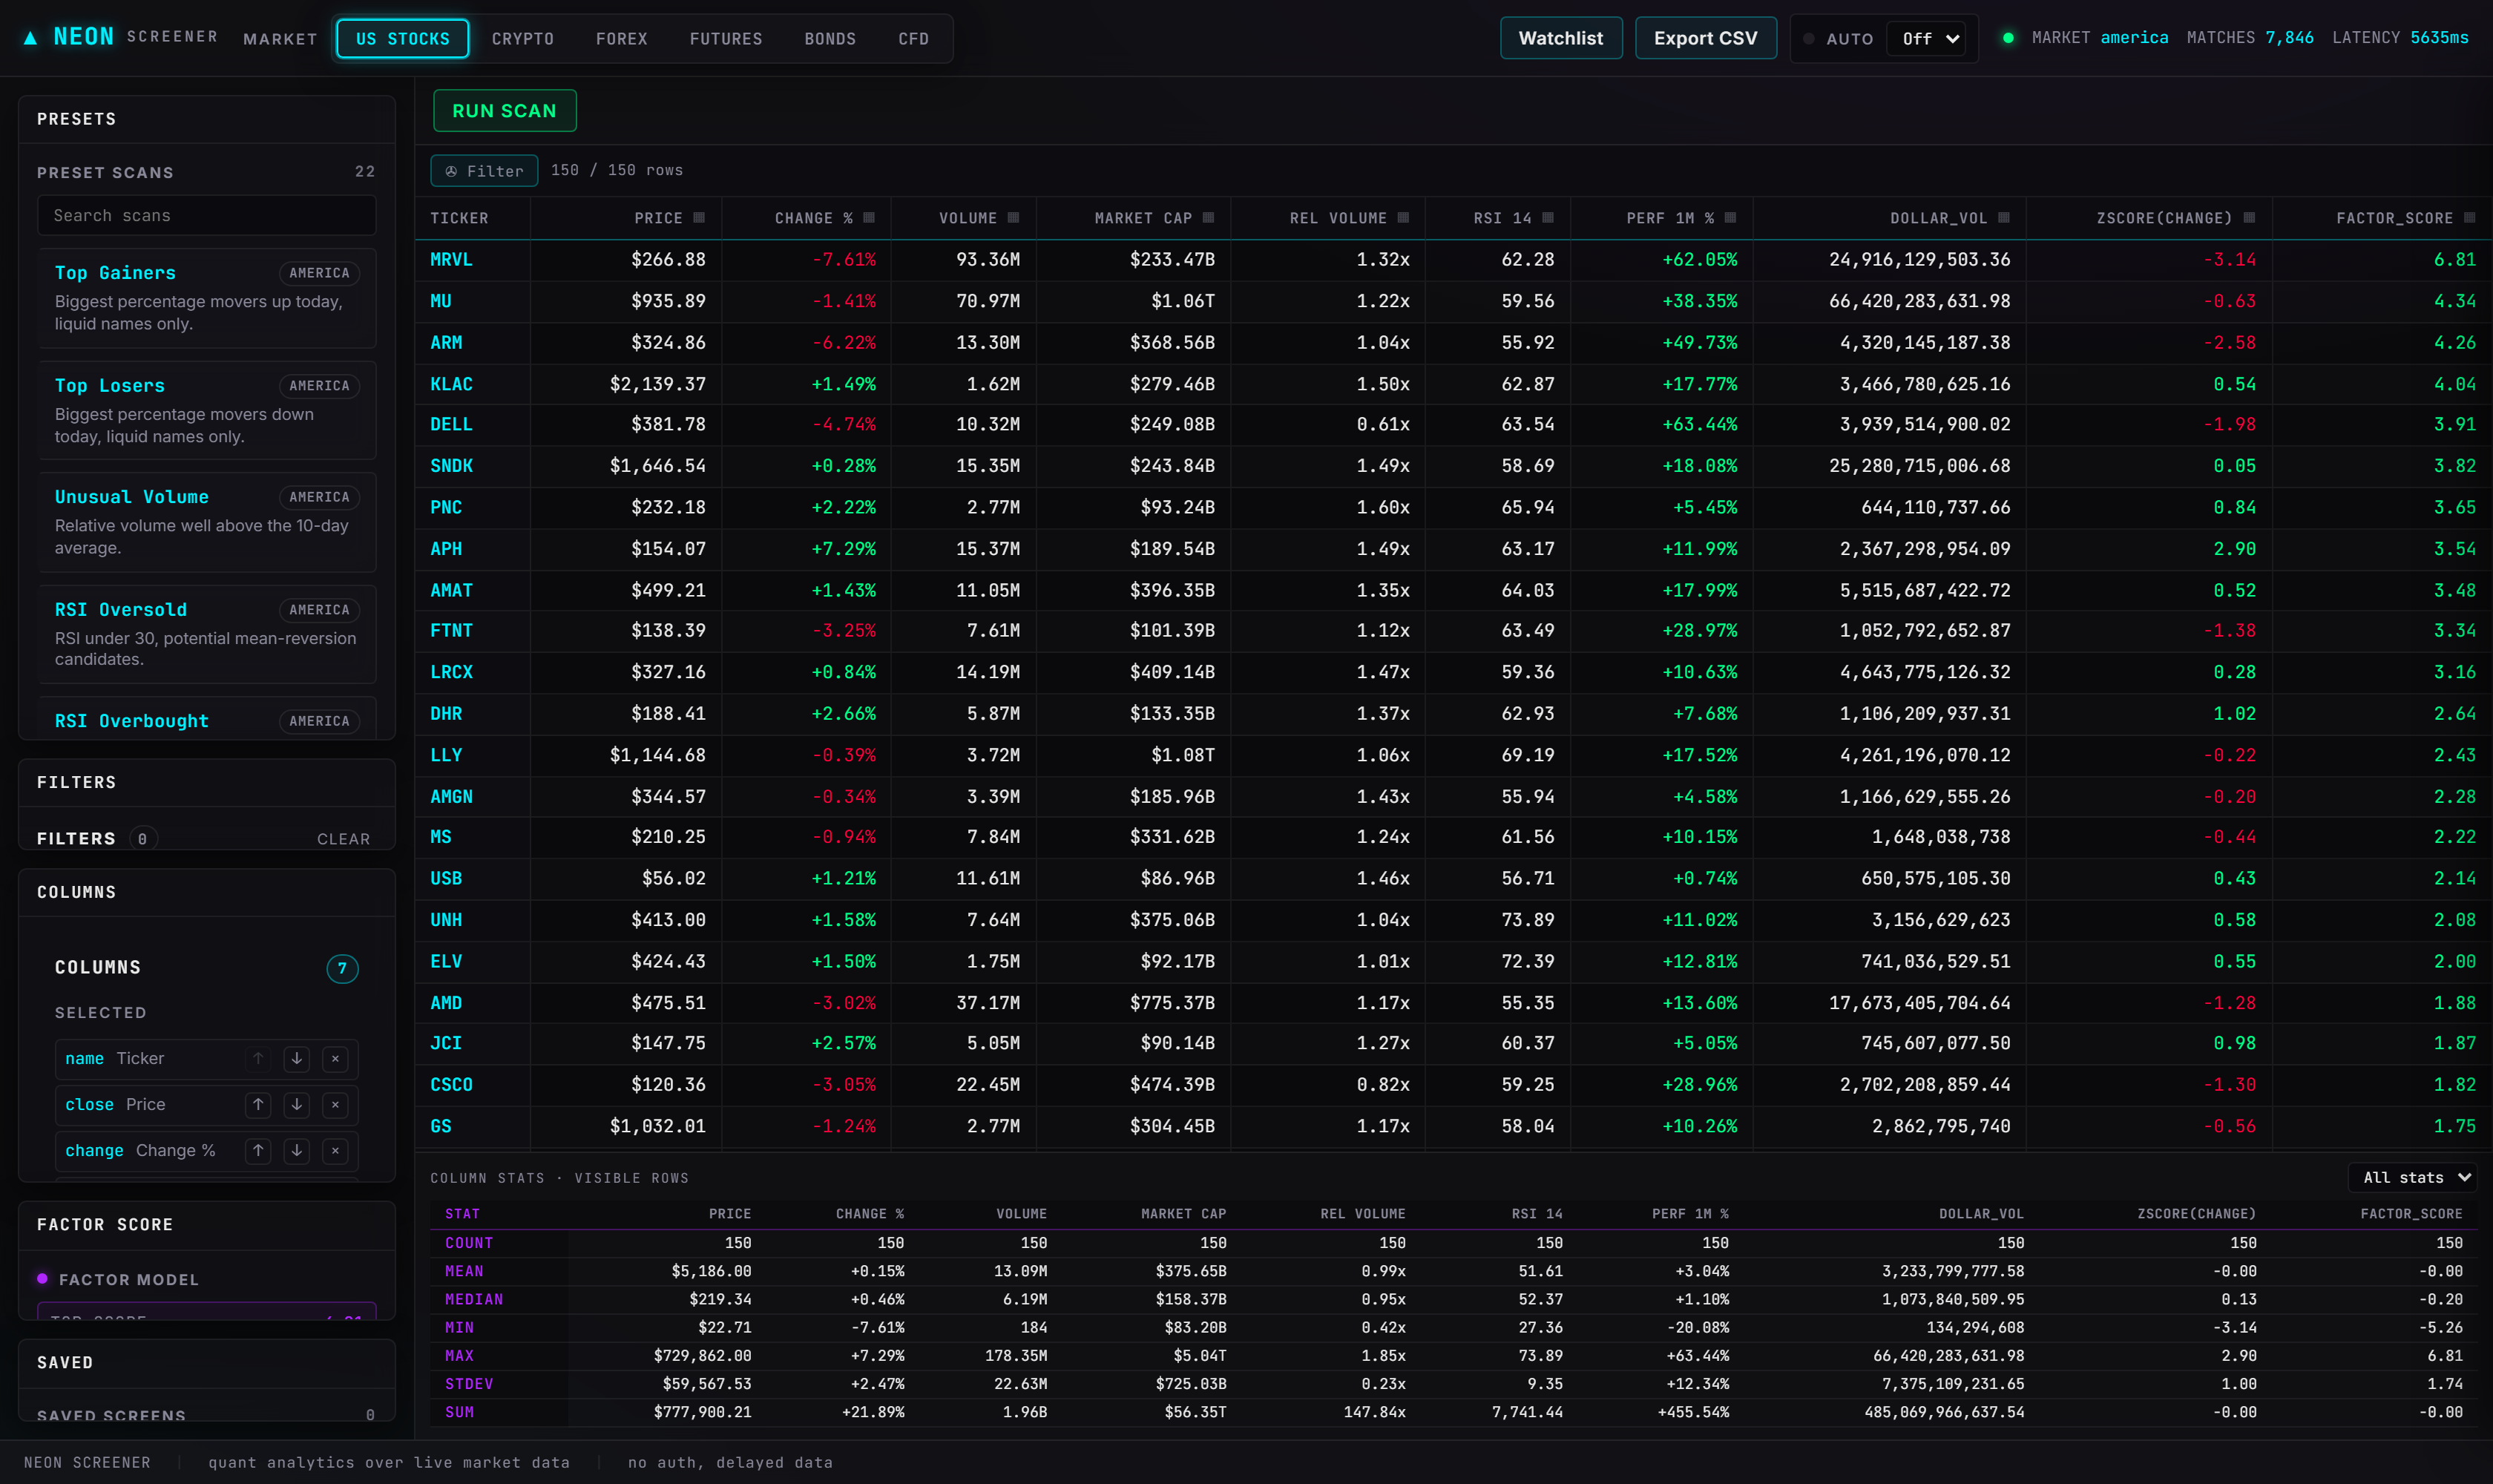
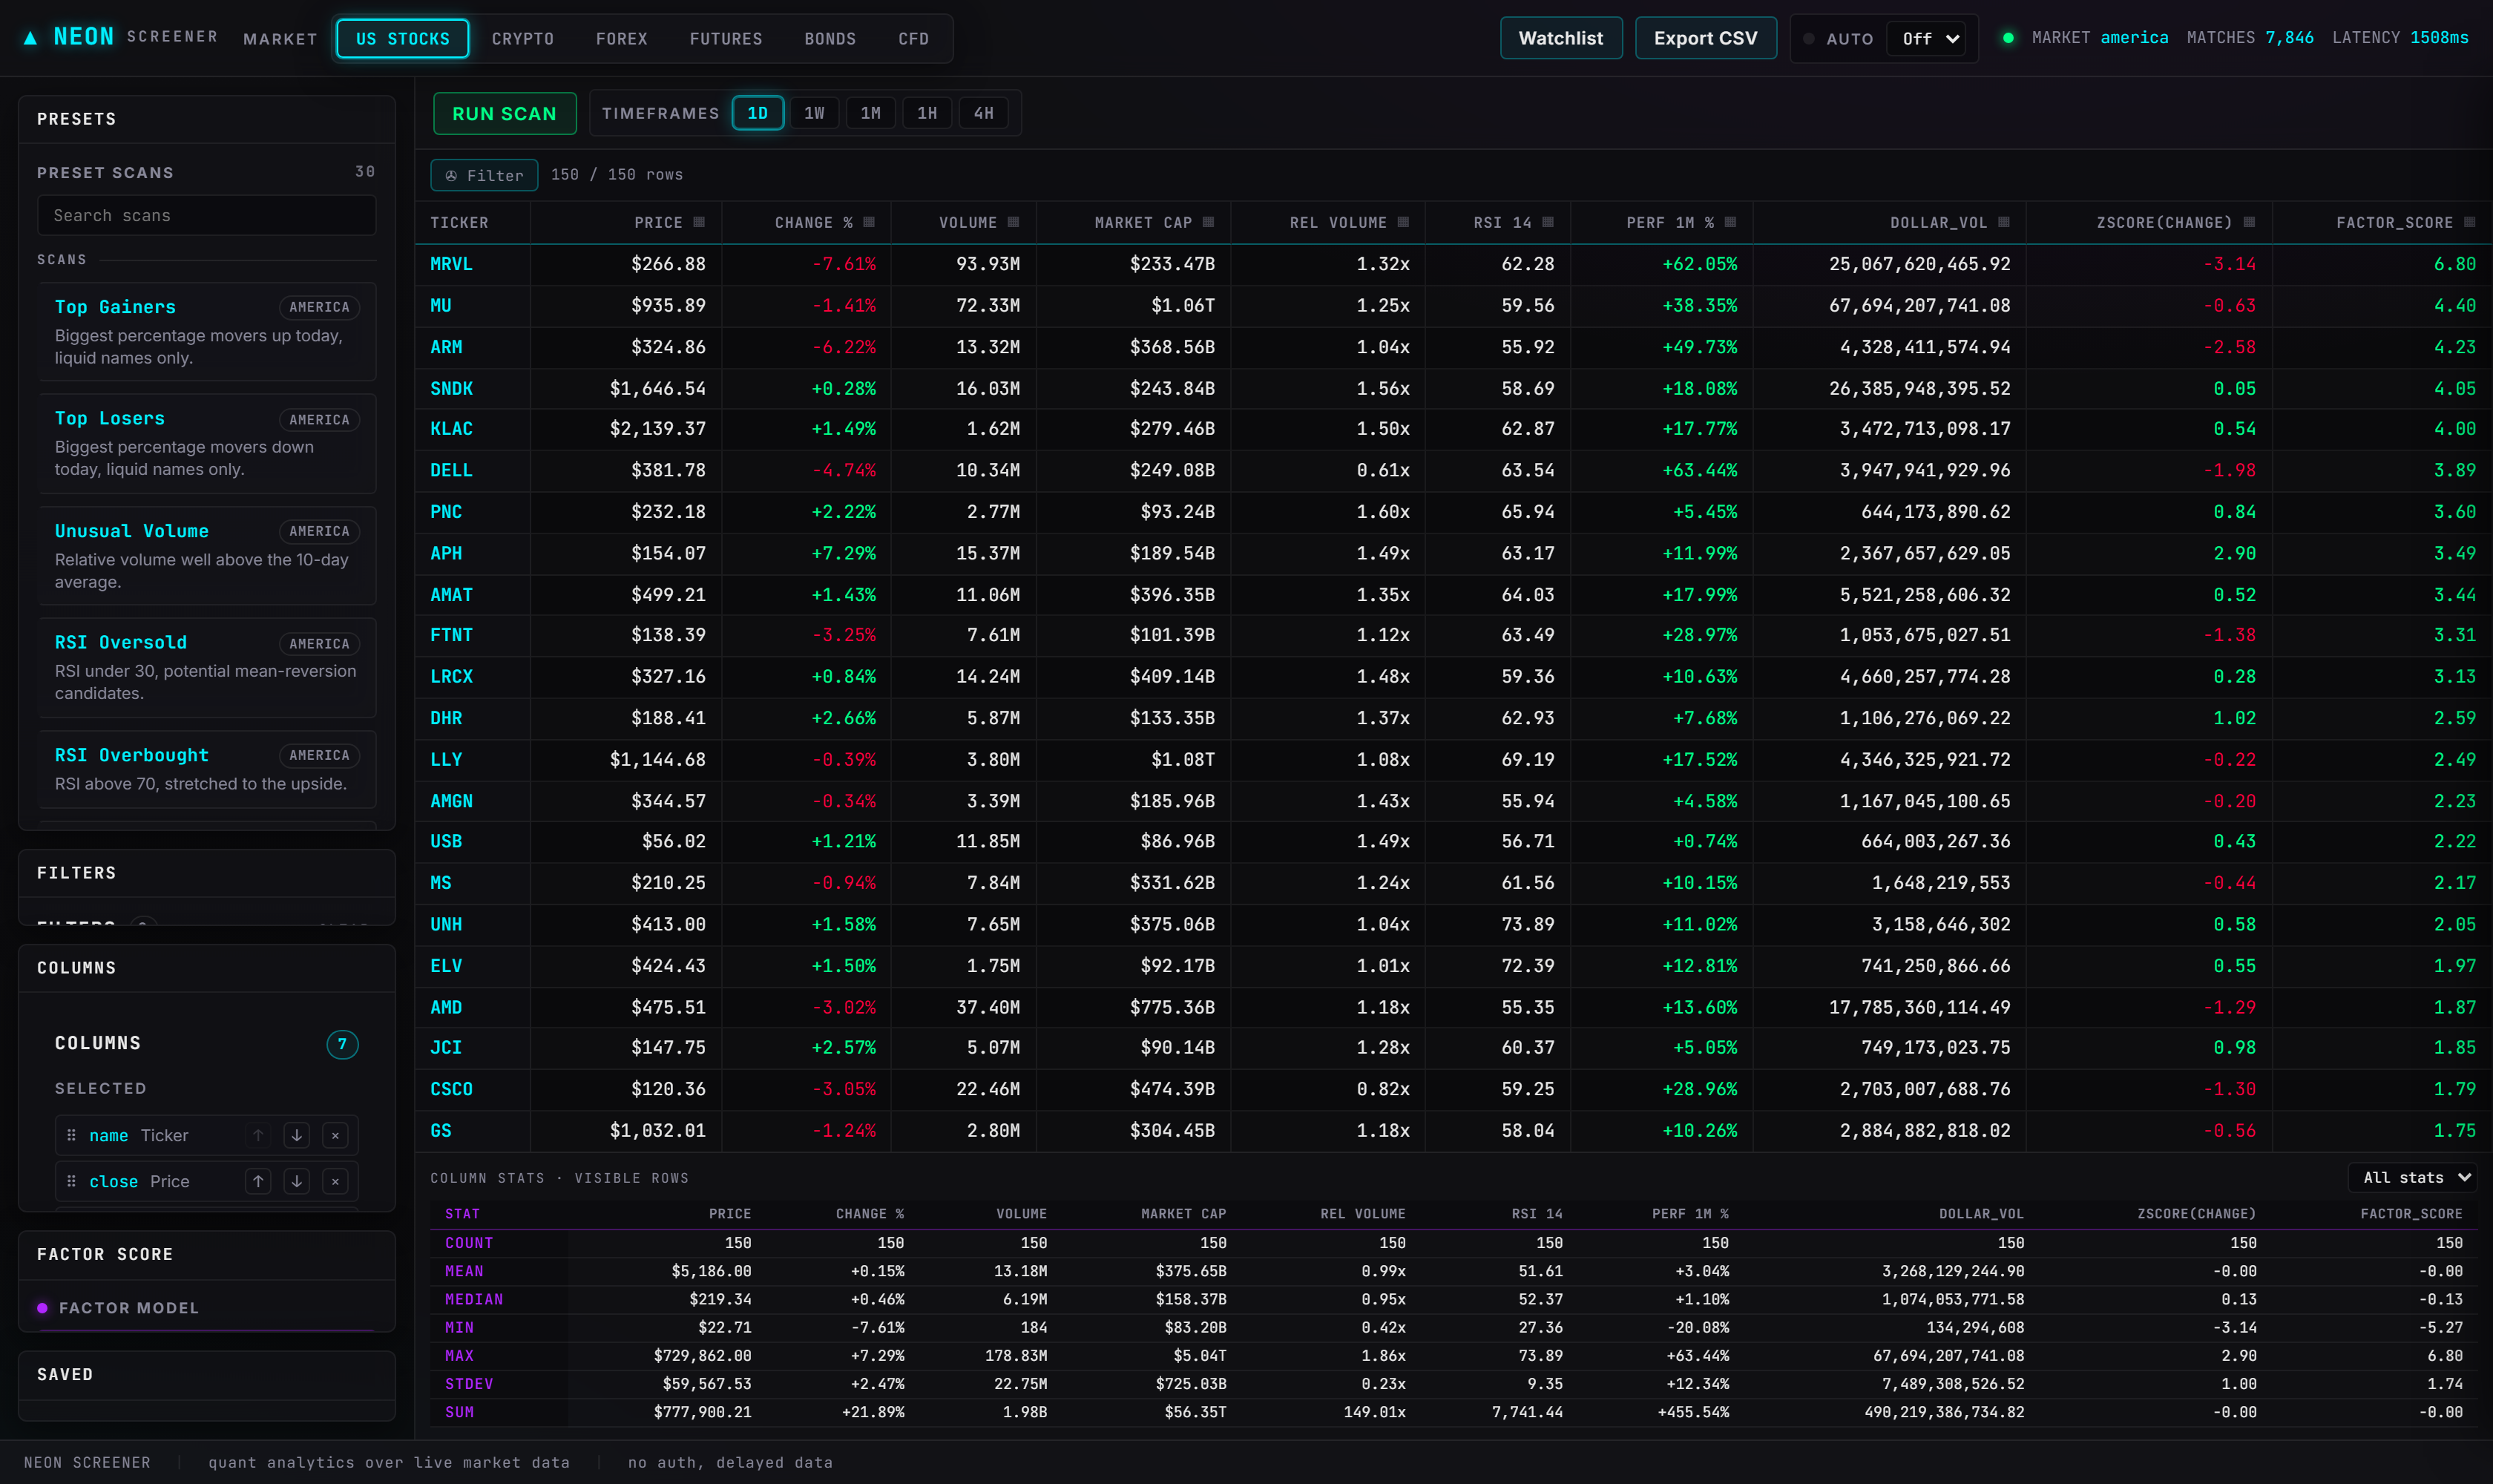
Wave 5: full EMA/SMA period catalog, signals screenshot, verify (52/52)
Add the standard + Fibonacci MA periods (5/8/10/13/21/30/34/55/89) as real
catalog fields so the Stacked EMA Ribbon signal displays its columns, not just
filters on them. Catalog now 190 fields. README + fresh screenshots.

diff --git a/docs/capture.py b/docs/capture.py
@@ -48,6 +48,34 @@ def main() -> int:
         page.screenshot(path=str(OUT / "analytics.png"))
         print("wrote analytics.png")
 
+        # Signals view: the Stacked EMA Fibonacci ribbon with a heatmap on change.
+        page.evaluate(
+            """async () => {
+              const s = window.Screener.store;
+              s.set({
+                columns: ['name','close','change','EMA8','EMA21','EMA34','EMA55','EMA89'],
+                computed: [], stats: [], factor: null,
+                filters: [
+                  {field:'close', op:'>', value:'EMA8'},
+                  {field:'EMA8', op:'>', value:'EMA21'},
+                  {field:'EMA21', op:'>', value:'EMA34'},
+                  {field:'EMA34', op:'>', value:'EMA55'},
+                  {field:'EMA55', op:'>', value:'EMA89'}
+                ],
+                match: 'all',
+                sort: [{field:'change', dir:'desc'}]
+              });
+              await s.runScreen();
+              if (window.Screener.table && window.Screener.table.heatmapCols) {
+                window.Screener.table.heatmapCols.add('change');
+                window.Screener.table._rerender && window.Screener.table._rerender();
+              }
+            }"""
+        )
+        time.sleep(1.5)
+        page.screenshot(path=str(OUT / "signals.png"))
+        print("wrote signals.png")
+
         browser.close()
     return 0
 

diff --git a/backend/fields.py b/backend/fields.py
@@ -183,12 +183,32 @@ _TECHNICALS = [
 ]
 
 _MOVINGAVG = [
+    # Full standard + Fibonacci period set. All probed live and confirmed to
+    # return data, so the EMA ribbon signals (8/21/34/55/89) display correctly.
+    _f("SMA5", "SMA 5", "MovingAverages", "price", "$"),
+    _f("SMA8", "SMA 8", "MovingAverages", "price", "$"),
+    _f("SMA10", "SMA 10", "MovingAverages", "price", "$"),
+    _f("SMA13", "SMA 13", "MovingAverages", "price", "$"),
     _f("SMA20", "SMA 20", "MovingAverages", "price", "$"),
+    _f("SMA21", "SMA 21", "MovingAverages", "price", "$"),
+    _f("SMA30", "SMA 30", "MovingAverages", "price", "$"),
+    _f("SMA34", "SMA 34", "MovingAverages", "price", "$"),
     _f("SMA50", "SMA 50", "MovingAverages", "price", "$"),
+    _f("SMA55", "SMA 55", "MovingAverages", "price", "$"),
+    _f("SMA89", "SMA 89", "MovingAverages", "price", "$"),
     _f("SMA100", "SMA 100", "MovingAverages", "price", "$"),
     _f("SMA200", "SMA 200", "MovingAverages", "price", "$"),
+    _f("EMA5", "EMA 5", "MovingAverages", "price", "$"),
+    _f("EMA8", "EMA 8", "MovingAverages", "price", "$"),
+    _f("EMA10", "EMA 10", "MovingAverages", "price", "$"),
+    _f("EMA13", "EMA 13", "MovingAverages", "price", "$"),
     _f("EMA20", "EMA 20", "MovingAverages", "price", "$"),
+    _f("EMA21", "EMA 21", "MovingAverages", "price", "$"),
+    _f("EMA30", "EMA 30", "MovingAverages", "price", "$"),
+    _f("EMA34", "EMA 34", "MovingAverages", "price", "$"),
     _f("EMA50", "EMA 50", "MovingAverages", "price", "$"),
+    _f("EMA55", "EMA 55", "MovingAverages", "price", "$"),
+    _f("EMA89", "EMA 89", "MovingAverages", "price", "$"),
     _f("EMA100", "EMA 100", "MovingAverages", "price", "$"),
     _f("EMA200", "EMA 200", "MovingAverages", "price", "$"),
     _f("BB.upper", "Bollinger Upper", "MovingAverages", "price", "$"),

diff --git a/README.md b/README.md
@@ -34,14 +34,28 @@ columns, factor scoring, in-result statistics, multi-key sort, client-side analy
 
 *Computed `dollar_vol`, a `zscore(change)` stat column, and a `factor_score` ranking, all live.*
 
+## Signals, timeframes, drag-and-drop
+
+![Signals and timeframes](docs/signals.png)
+
+- **Signal presets.** A SIGNALS group of one-click technical scans: Golden Cross and Death Cross
+  (`SMA50` crossing `SMA200`), Above / Below All MAs, Gap and Go, Volume Breakout, and the
+  **Stacked EMA Ribbon** on the real Fibonacci periods `close > EMA8 > EMA21 > EMA34 > EMA55 > EMA89`
+  (1,941 names live, no faked periods, every EMA is an actual scanner field).
+- **Multi-timeframe columns.** Toggle 1D / 1W / 1M / 1H / 4H and any technical column gets its
+  suffixed siblings added alongside, so you can read `RSI`, `RSI|1W`, and `RSI|1M` side by side.
+  Fundamentals are never suffixed.
+- **Drag-and-drop columns.** Reorder by dragging table headers or column-picker chips. A plain
+  header click still sorts.
+
 ## The rest of the surface
 
 - Visual filter builder with the full operator set: comparisons, `between`, `isin`, `crosses`,
   `above_pct`, `like`, and more, with AND / OR grouping.
 - Multi-market switcher: US stocks, crypto, forex, futures, bonds, CFDs. A market switch is a fresh
   canvas.
-- 22 one-click preset scans (top gainers, unusual volume, RSI extremes, 52-week highs, golden
-  cross, dividend aristocrats, breakouts, crypto movers, and more).
+- 30 one-click preset scans (top gainers, unusual volume, RSI extremes, 52-week highs, the signal
+  pack above, dividend aristocrats, crypto movers, and more).
 - Column picker over a 172-field catalog, grouped and searchable.
 - Row detail drawer with a performance sparkline. Saved screens and a watchlist (localStorage).
   CSV export. Auto-refresh. Command palette (Ctrl-K) and full keyboard navigation.